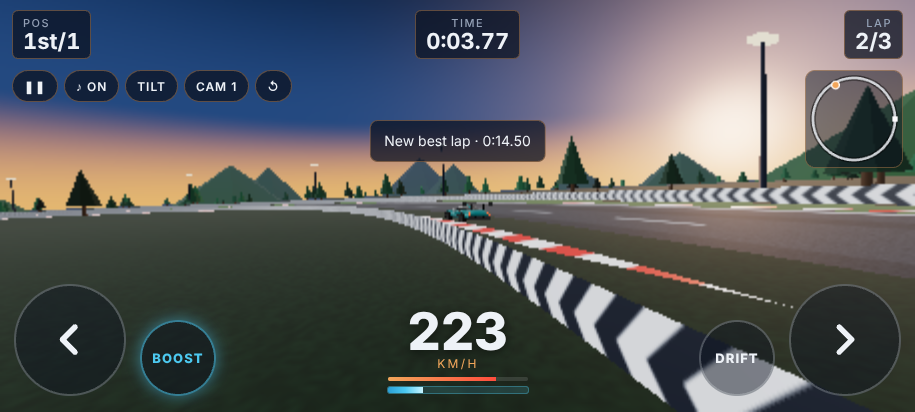
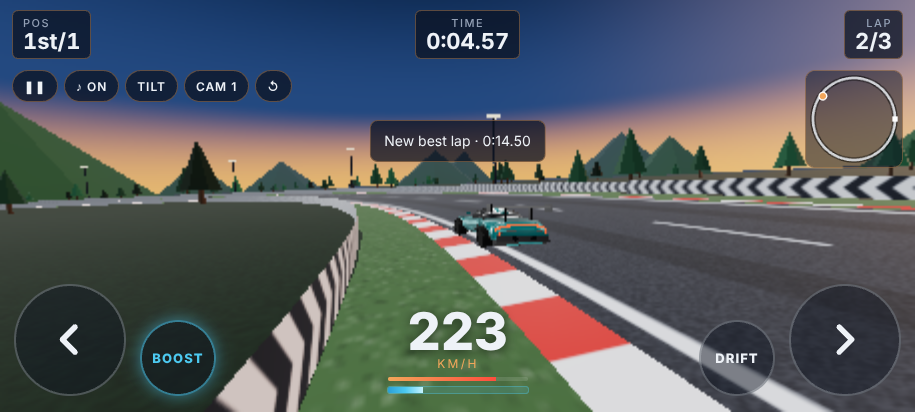
Perfect-start launch boost (and a bog if you go too early)
Claude-Session: https://claude.ai/code/session_01GBobAJkSqpPVNqa2GTDbwk

diff --git a/src/main.js b/src/main.js
@@ -294,7 +294,7 @@ function startRace() {
   gridUp();
   [...SCREENS, "finish", "pause", "topbar"].forEach((id) => ($(id).hidden = true));
   setRaceUI(true); G.paused = false; minimap.setTrack(G.path);
-  $("count").hidden = false; G.countT = 0; G.lastBeep = -1;
+  $("count").hidden = false; G.countT = 0; G.lastBeep = -1; G.launch = null; G.bog = 0;
   const f = $("fade"); f.classList.remove("out"); void f.offsetWidth; f.classList.add("out");
   G.tips = !save.tipsSeen && !TEST ? [[5, "Hold ◀ ▶ (or ← →) to steer. The car speeds up and brakes for corners by itself."], [13, "Tap DRIFT while steering to slide. Drifting fills your BOOST bar."], [22, "Press BOOST (or ↑) when the blue bar has charge for a burst of speed."]] : [];
 }
@@ -512,7 +512,17 @@ function step(dt) {
     [$("l1"), $("l2"), $("l3")].forEach((l, i) => { l.className = "lamp" + (c >= 4 ? " green" : c >= 1 + i ? " red" : ""); });
     $("countV").textContent = c < 1 ? "" : c < 4 ? String(3 - Math.floor(c - 1)) : "GO";
     const b = Math.floor(c); if (b !== G.lastBeep && b >= 1 && b <= 4) { G.lastBeep = b; sfx.beep(b === 4); }
-    if (c >= 4) G.mode = "race";
+    // launch control: hold BOOST in the last moment before green for a perfect start; too early and you bog down
+    const held = readControls().boost;
+    if (held && c > 3.55 && c < 4 && G.launch !== "early") G.launch = "perfect";
+    else if (held && c > 2.6 && c <= 3.55) G.launch = "early";
+    if (c >= 4) {
+      G.mode = "race";
+      const v = G.player;
+      if (G.launch === "perfect") { v.vx += Math.sin(v.h) * 22; v.vz += Math.cos(v.h) * 22; toast("Perfect start!", 1500); sfx.whoosh(); }
+      else if (G.launch === "early") { G.bog = 0.8; toast("Too early: wheelspin!", 1500); }
+      G.launch = null;
+    }
   }
   if (G.mode === "race" && G.countT < 5) { G.countT += dt; if (G.countT >= 5) $("count").hidden = true; }
 
@@ -522,6 +532,7 @@ function step(dt) {
   v.ctl.steer = ap ? ap.steer : ctl.steer;
   v.ctl.boost = ctl.boost; v.ctl.drift = ctl.drift; v.ctl.brake = ctl.brake;
   v.ctl.targetSpeed = ap ? ap.targetSpeed : assistSpeed(v);
+  if (G.bog > 0) { G.bog -= dt; v.ctl.targetSpeed = Math.min(v.ctl.targetSpeed, 4); }
   if (G.mode === "race" || G.mode === "done") {
     v.step(dt, racing);
     stepRivals(dt);
@@ -705,6 +716,7 @@ if (TEST) {
     get place() { return G.place; },
     get eventOk() { return G.eventOk; },
     get fieldSize() { return G.field.length; },
+    get countT() { return G.countT; },
     get ghostVisible() { return !!(G.ghost && G.ghost.model.group.visible); },
     get drawCalls() { return world.renderer.info.render.calls; },
     get triangles() { return world.renderer.info.render.triangles; },

diff --git a/sw.js b/sw.js
@@ -1,5 +1,5 @@
 // Generated by scripts/sw.mjs. Cache-first service worker so Apex Ring works offline once installed.
-const CACHE = "apex-ring-4901214d2c";
+const CACHE = "apex-ring-0946b094e4";
 const FILES = ["./","./icons/icon-192.png","./icons/icon-512.png","./icons/icon.svg","./index.html","./manifest.webmanifest","./src/ai.js","./src/audio.js","./src/camera.js","./src/career.js","./src/carmodel.js","./src/cars.js","./src/economy.js","./src/effects.js","./src/env.js","./src/ghost.js","./src/input.js","./src/main.js","./src/minimap.js","./src/rng.js","./src/save.js","./src/scene.js","./src/scenery.js","./src/showroom.js","./src/textures.js","./src/track.js","./src/trackmesh.js","./src/tracks.js","./src/vehicle.js","./styles.css","./vendor/three/addons/environments/RoomEnvironment.js","./vendor/three/addons/postprocessing/EffectComposer.js","./vendor/three/addons/postprocessing/MaskPass.js","./vendor/three/addons/postprocessing/OutputPass.js","./vendor/three/addons/postprocessing/Pass.js","./vendor/three/addons/postprocessing/RenderPass.js","./vendor/three/addons/postprocessing/ShaderPass.js","./vendor/three/addons/postprocessing/UnrealBloomPass.js","./vendor/three/addons/shaders/CopyShader.js","./vendor/three/addons/shaders/LuminosityHighPassShader.js","./vendor/three/addons/shaders/OutputShader.js","./vendor/three/addons/utils/BufferGeometryUtils.js","./vendor/three/three.core.js","./vendor/three/three.module.js"];
 
 self.addEventListener("install", (e) => { e.waitUntil(caches.open(CACHE).then((c) => c.addAll(FILES)).then(() => self.skipWaiting())); });

diff --git a/index.html b/index.html
@@ -170,7 +170,7 @@
 <div class="overlay center" id="pause" hidden>
   <div class="card">
     <div class="brand small">PAUSED</div>
-    <div class="hint">Steer: ◀ ▶ pads (or touch either half of the screen if set), ← → / A D. Drift: tap DRIFT while steering, Space. Brake: hold DRIFT, ↓. Boost: BOOST, ↑. Camera: C. Back on track: ↺ or R.</div>
+    <div class="hint">Steer: ◀ ▶ pads (or touch either half of the screen if set), ← → / A D. Drift: tap DRIFT while steering, Space. Brake: hold DRIFT, ↓. Boost: BOOST, ↑ (hold it just before GO for a perfect start). Camera: C. Back on track: ↺ or R.</div>
     <button class="btn" id="resumeBtn" type="button">Resume</button>
     <button class="btn ghost" id="restartBtn" type="button">Restart</button>
     <button class="btn ghost" id="quitBtn" type="button">Quit to menu</button>

diff --git a/tests/game.spec.js b/tests/game.spec.js
@@ -68,6 +68,17 @@ test.describe("Apex Ring", () => {
     await page.keyboard.up("ArrowUp");
   });
 
+  test("holding boost just before GO gives a perfect start", async ({ page }) => {
+    await openGame(page, "speed=1&rivals=0");
+    await page.click("#raceBtn");
+    await page.click("#startBtn");
+    await page.waitForFunction(() => window.__apex.countT > 3.3, null, { timeout: 20_000 });
+    await page.keyboard.down("ArrowUp");
+    await page.waitForFunction(() => window.__apex.mode === "race", null, { timeout: 10_000 });
+    await page.keyboard.up("ArrowUp");
+    await expect(page.locator("#toast")).toHaveText(/Perfect start|Too early/);
+  });
+
   test("HUD shows speed and lap time", async ({ page }) => {
     await openGame(page);
     await startRace(page);

diff --git a/CLAUDE.md b/CLAUDE.md
@@ -73,3 +73,4 @@ The car accelerates by itself; the player steers, and has boost and drift/brake 
 - 2026-10-09: Controls: optional 'screen halves' touch steering (Settings > Touch steering), control help on the pause screen, README.md for humans.
 - 2026-10-09: CI: runs on main now queue instead of cancelling each other (a full run takes ~10 min), so every push gets tested and the latest green one deploys. Tried 2 Playwright workers: too slow under software WebGL, kept 1.
 - 2026-10-09: Career flow: 'Next: <event>' button after a completed event, Try again / Replay labels, champion message after the final. Tried letting bold rivals drift into hairpins: slower and more wall hits in the headless race sim, so reverted it.
+- 2026-10-09: Launch control: hold BOOST in the last moment before GO for a perfect start (+22 m/s); too early gives a short wheelspin bog.
